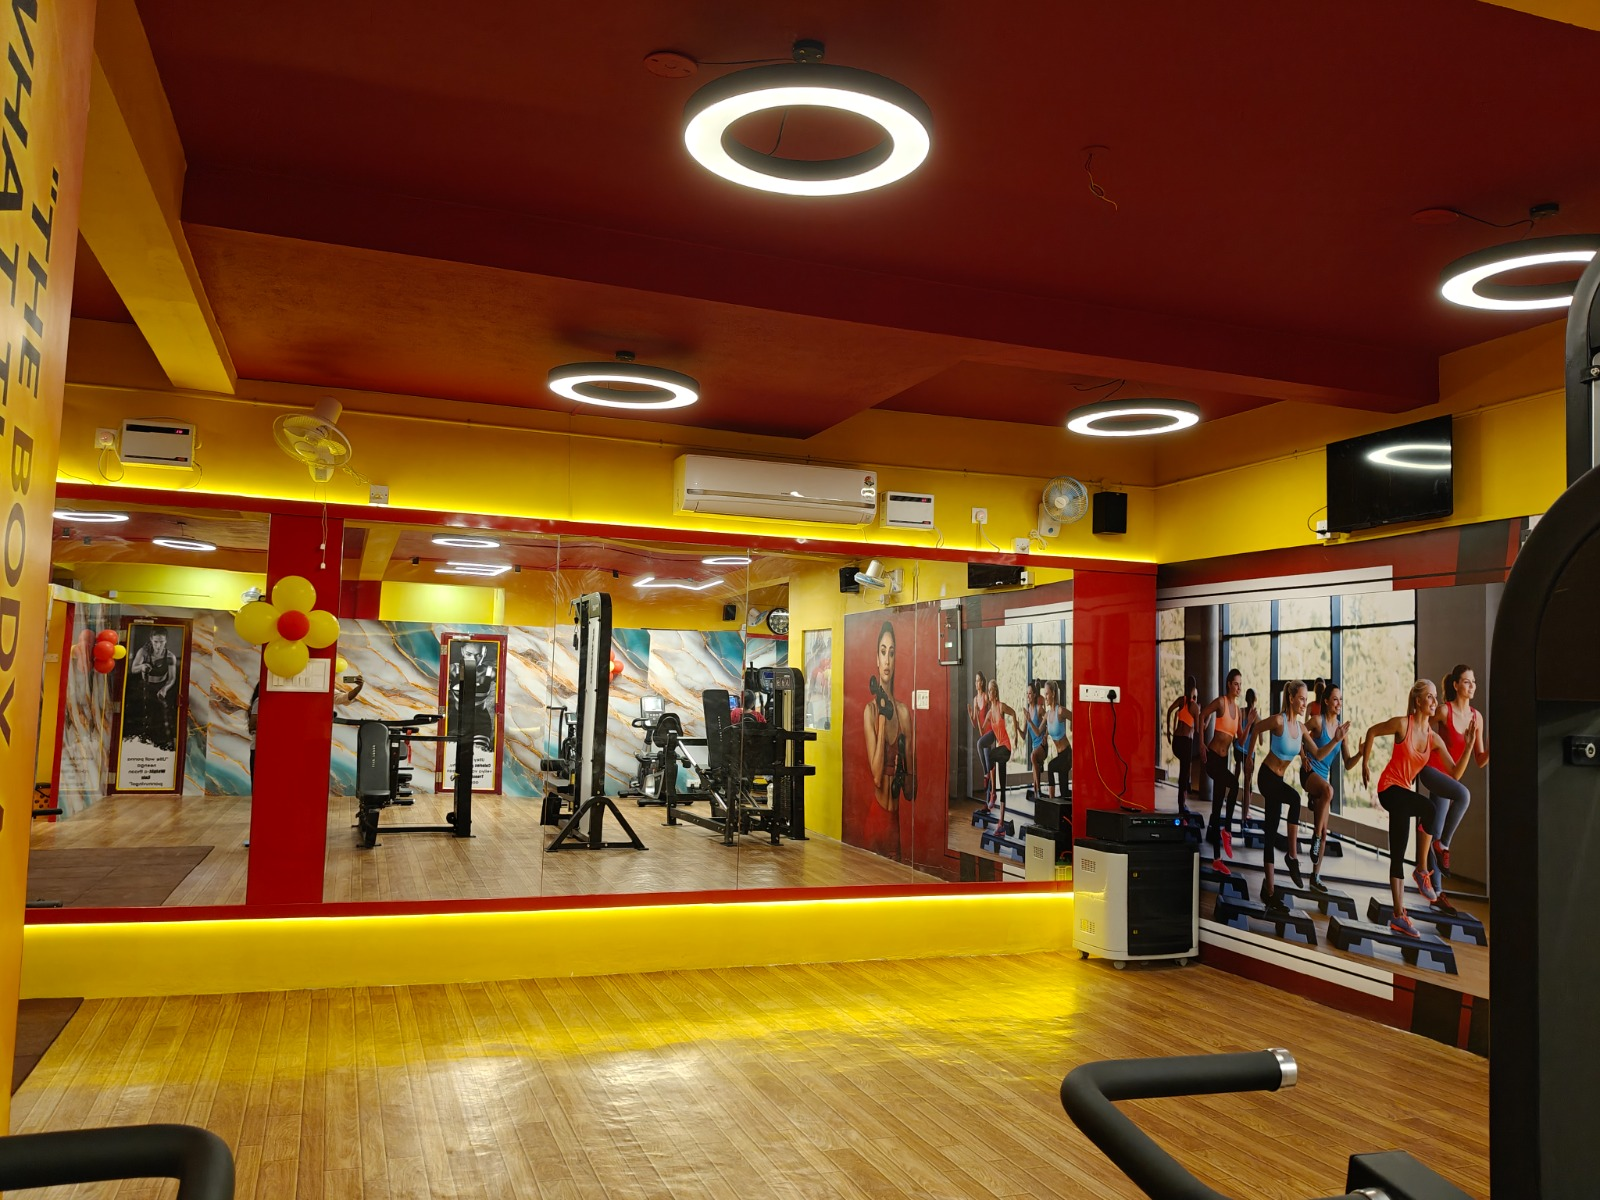
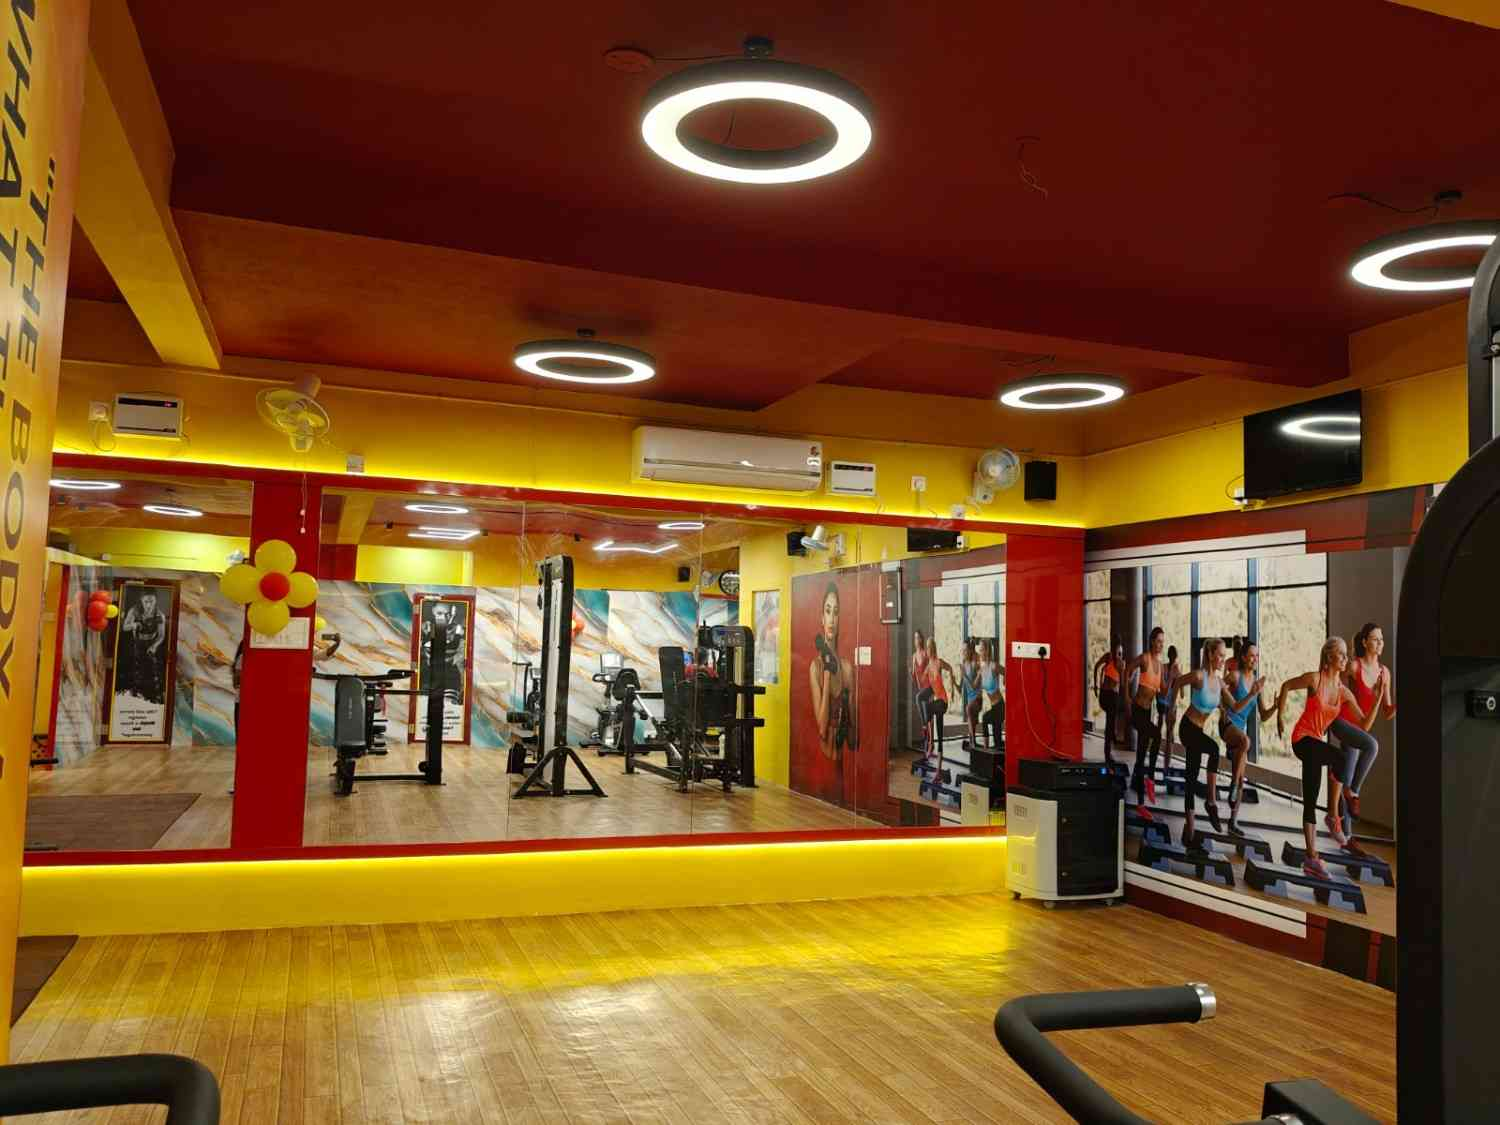
ImgSizeReducer

diff --git a/src/data/challenges.js b/src/data/challenges.js
@@ -87,6 +87,22 @@ export const challenges = [
     featured: false,
     status: 'active',
     shortDescription: 'Reset your strength routine with guided weekly progress checkpoints.'
+  },
+    {
+    id: 'july-strength-reset-2026',
+    name: '30-Day Strength point Reset',
+    type: 'Strength',
+    category: 'month',
+    startDate: '2026-07-07',
+    endDate: '2026-07-07',
+    displayDates: 'July 1 - July 31',
+    difficulty: 'Intermediate',
+    trainer: 'Kayathri Murugan',
+    reward: 'Free Progress Consultation',
+    progress: 24,
+    featured: false,
+    status: 'upcoming',
+    shortDescription: 'Reset your strength routine with guided weekly progress checkpoints.'
   }
 ];
 

diff --git a/src/components/Footer.jsx b/src/components/Footer.jsx
@@ -66,7 +66,7 @@ function Footer() {
         <div className="footer-column footer-contact">
           <h3>Contact</h3>
           <p>+91 8220138783</p>
-          <p>queens@femmefithub.com</p>
+          <p>hello@femmefithub.com</p>
           <p>
             No 2/2, first floor, Sannathi street, Mari Amman Kovil St,
             Valasaravakkam, Tamil Nadu 600087
